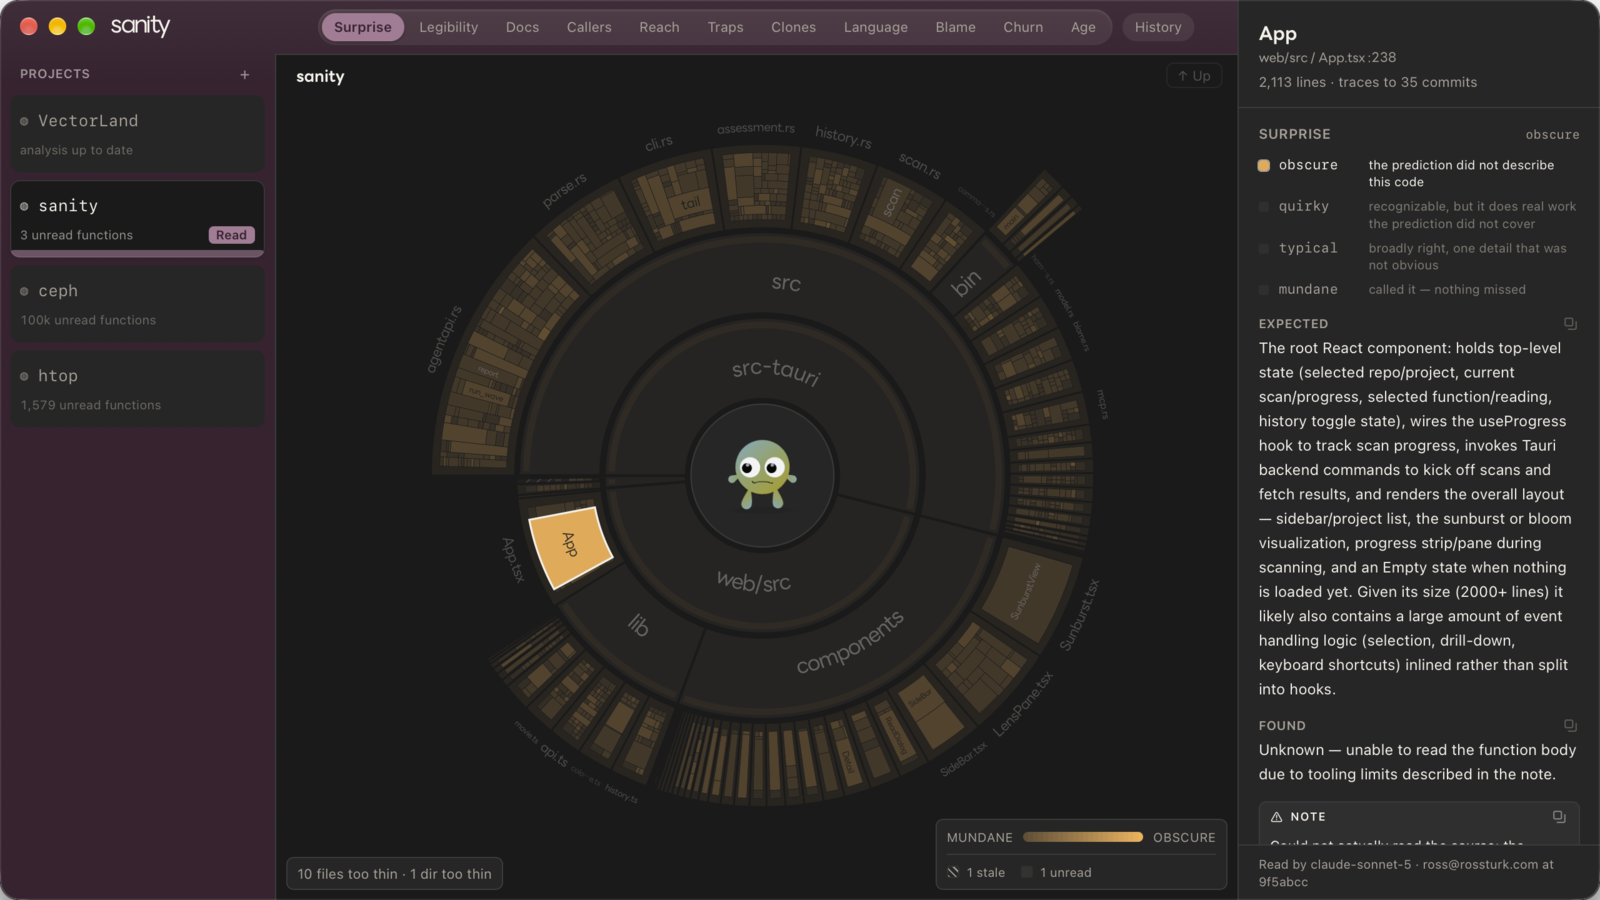
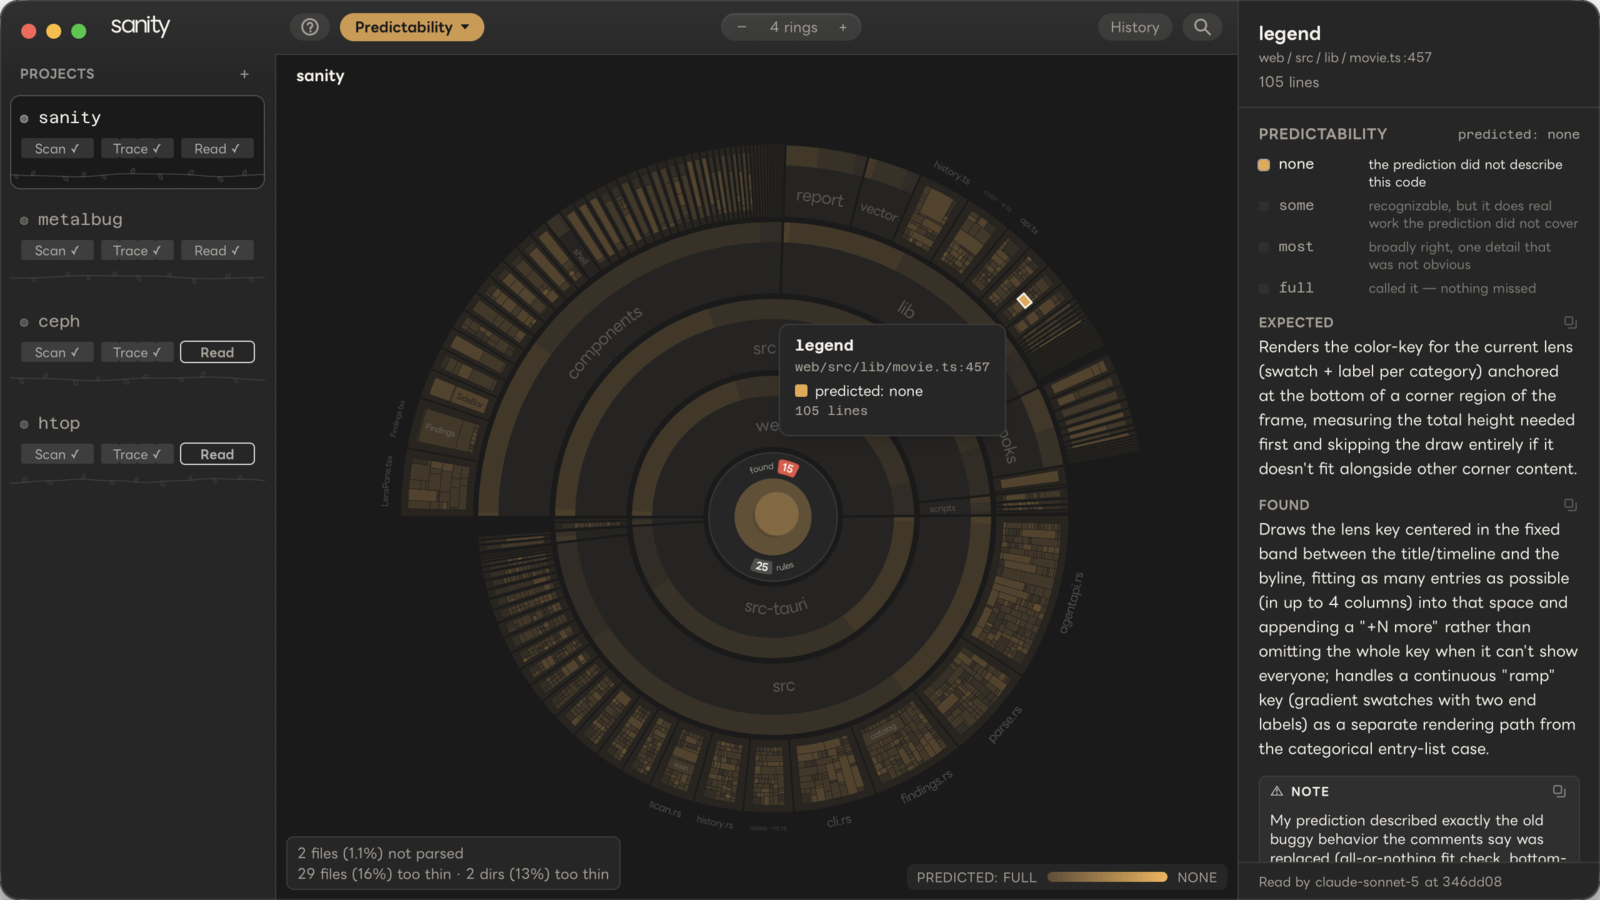
The README's screenshots follow the viewer's theme, and the site's map and reading plates are new captures

diff --git a/website/index.html b/website/index.html
@@ -954,7 +954,7 @@ img{max-width:100%; display:block}
       <div class="strip">
         <button class="plate" type="button">
           <img src="./assets/screenshot.png"
-               data-cap="Width is line count; color is what a reader could not predict. The panel sorts the repo into four grades: 315 mundane, nine obscure, 79 not read yet."
+               data-cap="Width is line count; color is what a reader could not predict. The panel sorts the repo into four grades: 709 predicted in full, 1,144 mostly, 409 in part, 37 not at all."
                alt="The full map of a repository: rings of directories, files and functions, with the repo's readings broken down by grade in the panel.">
         </button>
         <button class="plate" type="button">

diff --git a/README.md b/README.md
@@ -38,7 +38,11 @@ Sanity doesn't send your code anywhere new: the agent you already use does the r
 
 All of it is committed with the repo, so it goes wherever the code goes.
 
-![The map, colored by predictability](docs/images/map.png)
+<picture>
+  <source media="(prefers-color-scheme: dark)" srcset="docs/images/map-dark.png">
+  <source media="(prefers-color-scheme: light)" srcset="docs/images/map-light.png">
+  <img alt="The map, colored by predictability" src="docs/images/map-light.png">
+</picture>
 
 ## Understanding a repo
 
@@ -46,7 +50,11 @@ Sanity draws the repo as a sunburst: the repo in the middle, directories and fil
 
 You choose what the color shows: how well an agent could predict the code, how hard it was to follow, whether it's documented, how complex it is, how many places call it, how many functions it calls, who worked on it last, how old it is, how often it changes, and more; [docs/lenses.md](docs/lenses.md) lists every lens.
 
-![A function's reading in the side panel](docs/images/reading.png)
+<picture>
+  <source media="(prefers-color-scheme: dark)" srcset="docs/images/reading-dark.png">
+  <source media="(prefers-color-scheme: light)" srcset="docs/images/reading-light.png">
+  <img alt="A function's reading in the side panel" src="docs/images/reading-light.png">
+</picture>
 
 The most useful of these measurements come from **readings**, the predictions described above. Besides how far off its prediction was, each reading records how hard the code was to follow, whether the comments helped, and any traps the reader found.
 
@@ -62,7 +70,13 @@ Sanity also gives you a list of specific findings, places that need attention. E
 
 You decide on each finding: fix it, snooze it, mark it wrong or accept it, and the decision is committed with the repo. For findings, decisions and how rules work, see [docs/findings.md](docs/findings.md); for every field and how to write your own rule, see [docs/rules.md](docs/rules.md).
 
-<p align="center"><img src="docs/images/findings.png" alt="The findings list" width="560"></p>
+<p align="center">
+<picture>
+  <source media="(prefers-color-scheme: dark)" srcset="docs/images/findings-dark.png">
+  <source media="(prefers-color-scheme: light)" srcset="docs/images/findings-light.png">
+  <img alt="The findings list" src="docs/images/findings-light.png" width="560">
+</picture>
+</p>
 
 Rules are designed to combine multiple signals. For example, a hard-to-predict function isn't always a problem. It might be a careful algorithm or it might be a mess. Git history helps tell them apart:
 
@@ -94,7 +108,13 @@ That is the only reader measured so far: about 23,000 tokens for a reader to sta
 
 A cheaper reader isn't a cheaper version of the same measurement (see [why trust the signal](#why-trust-the-signal)). Start with `sanity check --limit 50` to see what a pass is like before reading everything.
 
-<p align="center"><img src="docs/images/read-dialog.png" alt="Starting a reading pass: the agent, the model, and what the pass will cover" width="420"></p>
+<p align="center">
+<picture>
+  <source media="(prefers-color-scheme: dark)" srcset="docs/images/read-dialog-dark.png">
+  <source media="(prefers-color-scheme: light)" srcset="docs/images/read-dialog-light.png">
+  <img alt="Starting a reading pass: the agent, the model, and what the pass will cover" src="docs/images/read-dialog-light.png" width="420">
+</picture>
+</p>
 
 To leave parts of a repo out, list them in a `.sanityignore` at the root. They're still drawn on the map, but they aren't read and don't count toward coverage.
 

diff --git a/docs/findings.md b/docs/findings.md
@@ -15,7 +15,13 @@ measurements, like "over 200 lines, and hard to follow" or "depended on by ten o
 functions, and undocumented." Sanity comes with about two dozen rules, and you can change
 their thresholds or turn them off for your repo.
 
-<p align="center"><img src="images/findings.png" alt="The findings list" width="560"></p>
+<p align="center">
+<picture>
+  <source media="(prefers-color-scheme: dark)" srcset="images/findings-dark.png">
+  <source media="(prefers-color-scheme: light)" srcset="images/findings-light.png">
+  <img alt="The findings list" src="images/findings-light.png" width="560">
+</picture>
+</p>
 
 ```
 $ sanity findings --limit 2
